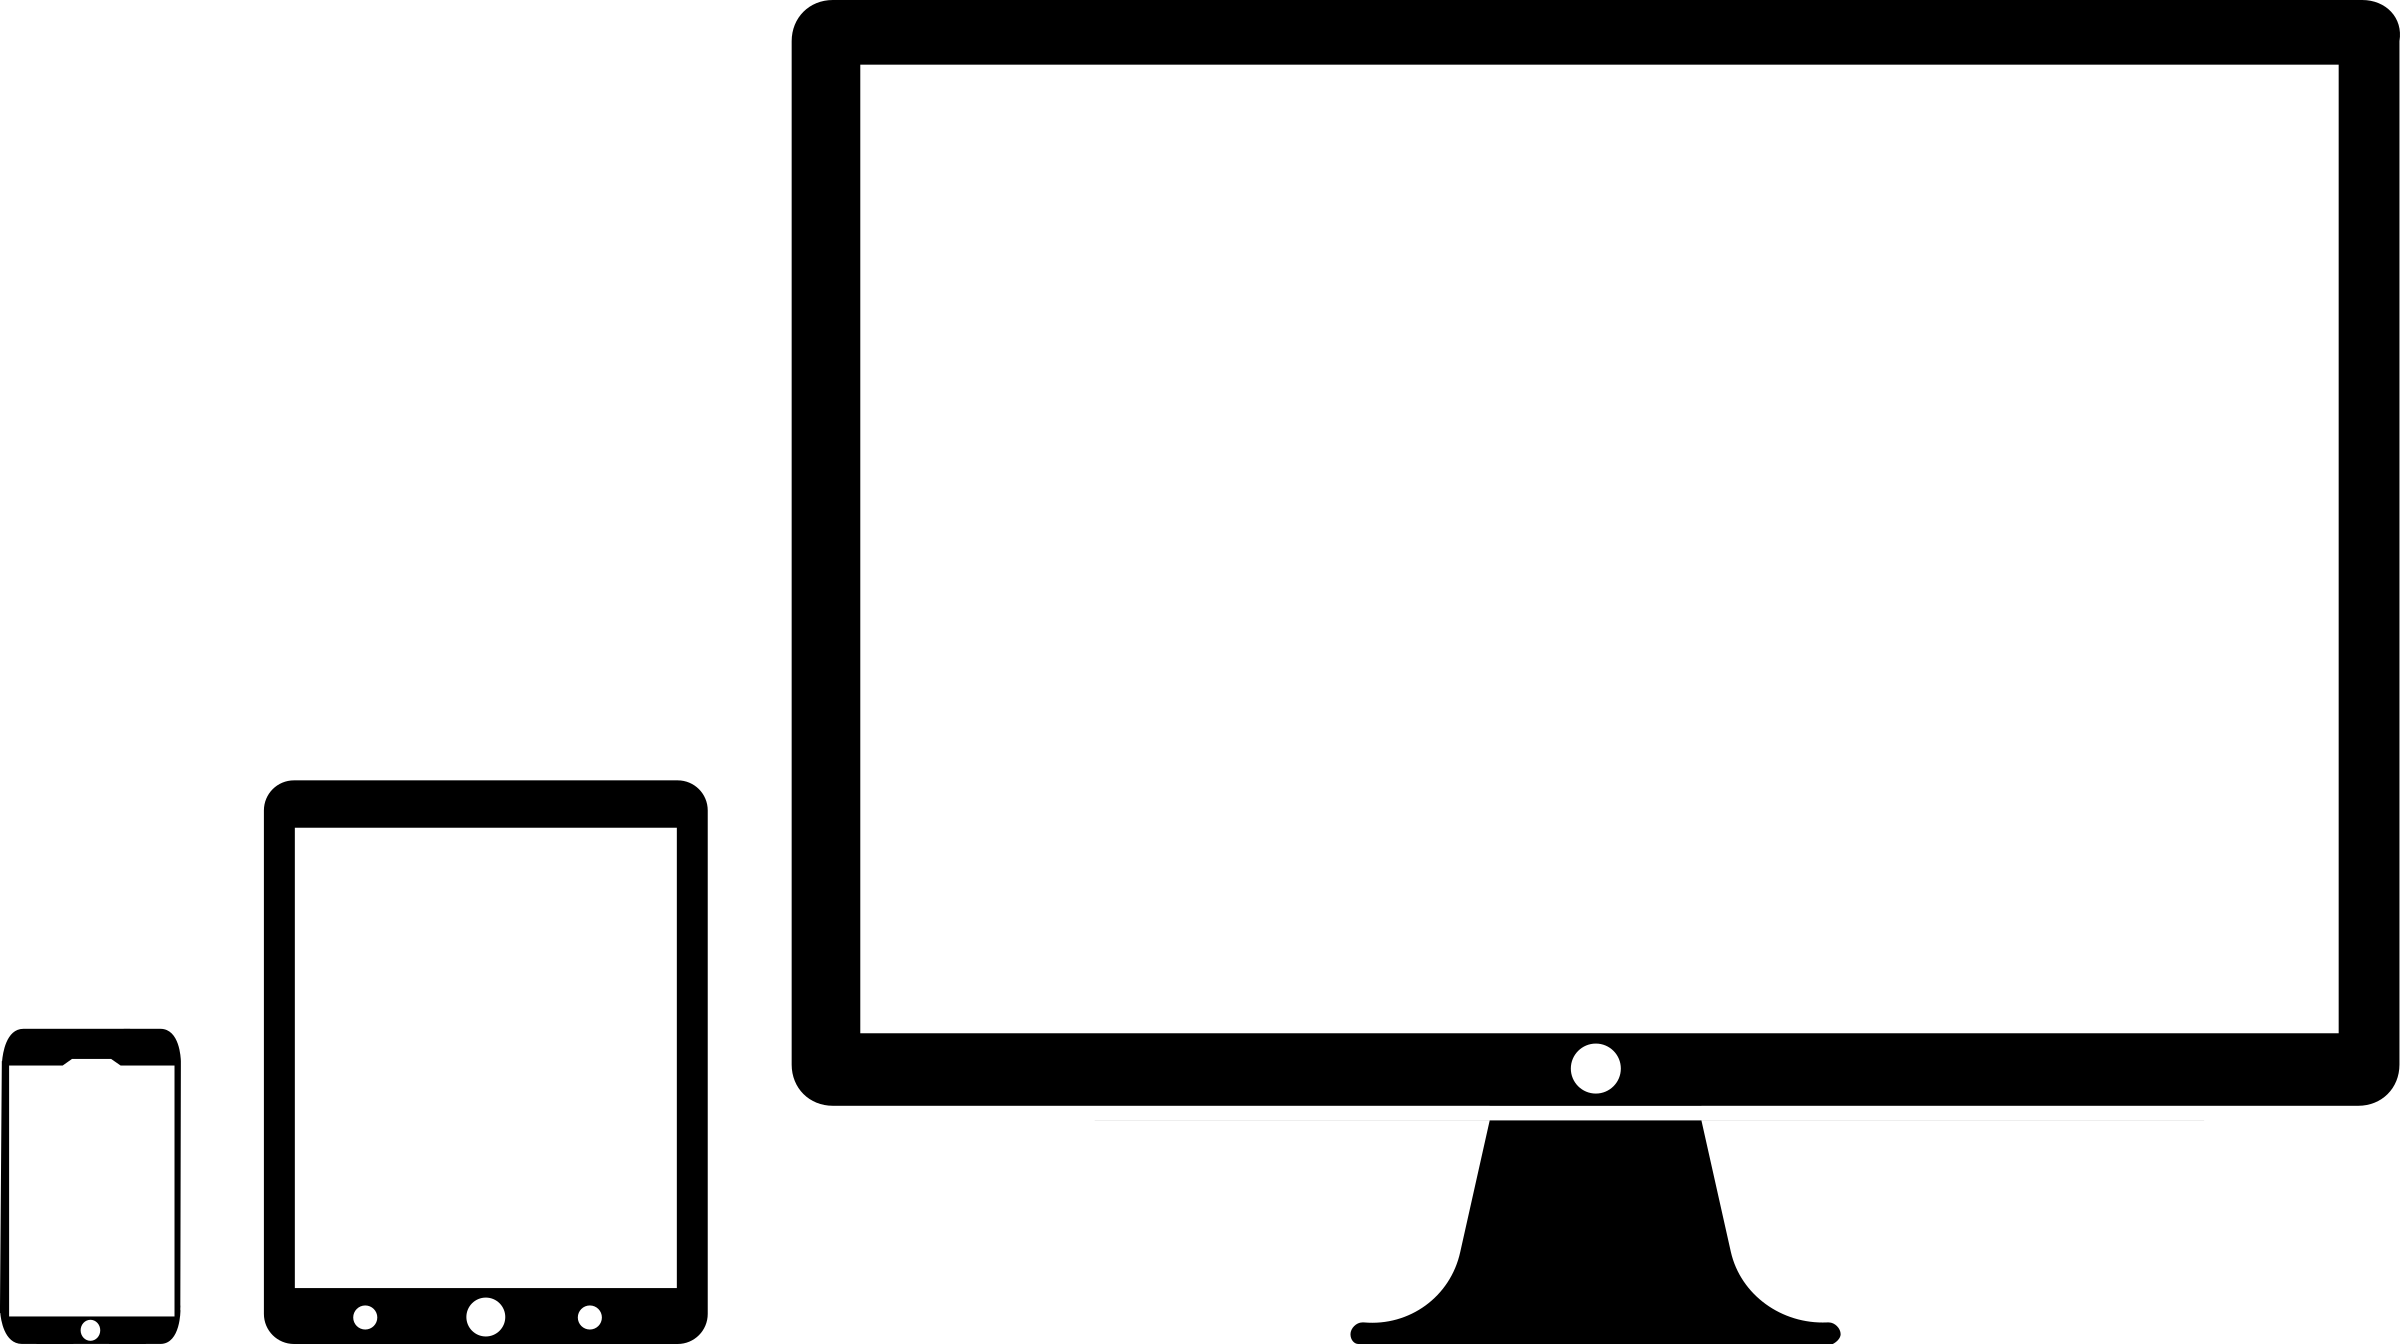
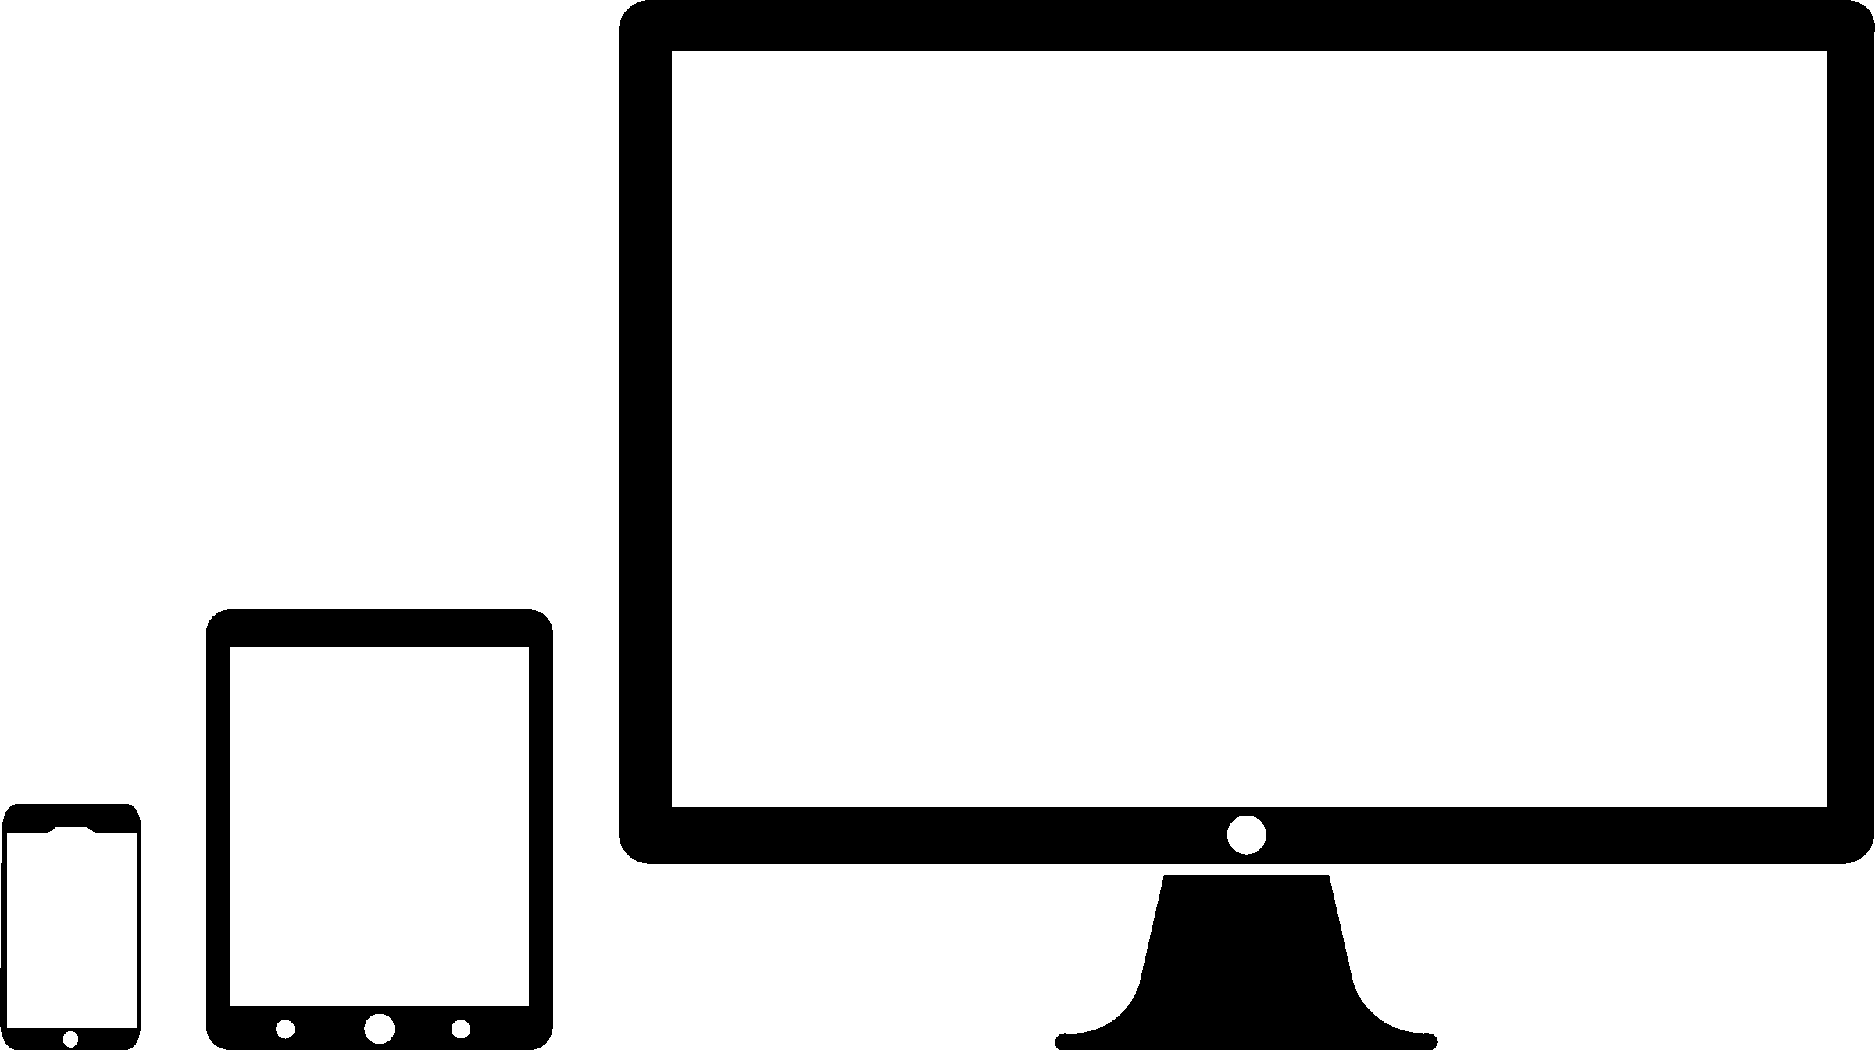
layout cd...

diff --git a/skeleton/templates/skeleton/base.html b/skeleton/templates/skeleton/base.html
@@ -102,26 +102,14 @@
 	    					     d="M 173.61794,653.12532 C 125.63879,644.08151 97.680326,612.54239 92.459831,561.57322 85.73563,495.92295 118.84034,450.7649 181.25,440.4548 c 15.79924,-2.61005 42.78331,-1.68448 56.875,1.95084 30.61791,7.89867 50.06145,26.72924 57.53315,55.71936 2.27099,8.81144 4.73707,33.75954 3.73771,37.8125 l -0.69348,2.8125 -61.39738,0 -61.39736,0 0.71808,24.6875 c 0.9535,32.78034 4.5124,48.81804 13.86632,62.48651 8.42325,12.30856 24.97266,18.11093 44.22711,15.50643 17.38821,-2.35208 28.0198,-7.74556 39.04324,-19.80697 5.86558,-6.41789 15.06273,-23.02732 16.86552,-30.45798 0.66335,-2.73419 1.33224,-3.12828 4.51642,-2.66094 3.45037,0.5064 3.67711,0.84926 2.94924,4.45951 -0.43367,2.15101 -3.60263,9.74929 -7.04215,16.88504 -10.7578,22.31856 -26.95695,35.6579 -51.05142,42.03876 -11.29245,2.99054 -52.96079,3.7673 -66.38206,1.23746 z M 221.25,507.15471 c 0,-46.98117 -4.43706,-59.65471 -20.88538,-59.65471 -6.50863,0 -7.2783,0.33474 -12.28746,5.34389 -8.54224,8.54223 -11.7613,24.89416 -11.8055,59.96861 L 176.25,530 l 22.5,0 22.5,0 0,-22.84529 z M 39.25839,652.53946 c -12.264915,-2.61813 -20.601256,-8.50925 -24.761145,-17.49817 -2.48996,-5.38044 -2.641528,-8.01524 -3.004484,-52.22879 l -0.382238,-46.5625 -4.9302618,0 C 2.6311401,536.25 1.25,535.72475 1.25,534.375 c 0,-1.35416 1.3888889,-1.875 5,-1.875 l 5,0 0,-16.20182 0,-16.20182 4.6875,-1.25379 c 2.578125,-0.68958 12,-2.99892 20.9375,-5.13187 8.9375,-2.13295 17.234375,-4.15958 18.4375,-4.50363 2.024059,-0.57879 2.1875,1.01517 2.1875,21.33369 l 0,21.95924 16.25,0 c 13.611111,0 16.25,0.30449 16.25,1.875 0,1.57091 -2.646309,1.875 -16.316784,1.875 l -16.316783,0 0.379283,49.0625 c 0.341044,44.11592 0.602124,49.47026 2.58952,53.10689 3.874379,7.08952 13.802144,7.04397 20.721575,-0.095 C 85.085944,634.16731 90,623.40435 90,618.73659 c 0,-1.64277 0.837771,-2.48659 2.46875,-2.48659 2.110341,0 2.35663,0.58979 1.69646,4.0625 -2.821438,14.84167 -12.253156,27.9114 -22.29021,30.888 -6.510025,1.93061 -26.081207,2.73405 -32.61661,1.33896 z M 285,646.25 l 0,-5 15,0 15,0 0,-200.625 0,-200.625 -16.25,0 -16.25,0 0,-5 0,-5 68.75,0 68.75,0 0,136.19874 0,136.19875 4.93451,-2.13625 c 2.71399,-1.17493 33.02698,-25.47999 67.36221,-54.01124 l 62.42769,-51.875 -26.11221,-0.33736 -26.1122,-0.33737 0,-4.97513 0,-4.97514 55.625,0 55.625,0 0,5 0,5 -20.00167,0 -20.00168,0 -33.12332,28.18485 C 522.4055,437.43651 507.5,450.39938 507.5,450.74119 c 0,0.34182 21.79687,43.3394 48.4375,95.55016 l 48.4375,94.92866 10.3125,0.015 10.3125,0.015 0,5 0,5 -78.125,0 -78.125,0 0,-5 0,-5 12.5,0 c 6.875,0 12.5,-0.25717 12.5,-0.5715 0,-0.31434 -14.07779,-29.42371 -31.28398,-64.6875 C 431.26661,512.04832 431.17194,511.8755 427.44585,512.0615 419.44507,512.46089 420,507.58677 420,577.46077 l 0,63.78923 13.125,0 13.125,0 0,5 0,5 -80.625,0 -80.625,0 0,-5 z M 0,408.84155 0,403.75 l 14.375,0 14.375,0 0,-170 0,-170 -14.375,0 -14.375,0 0,-5.11626 0,-5.116259 90.9375,0.611094 c 92.48156,0.621471 101.13094,1.028905 125.3125,5.90292 26.71614,5.38488 42.96675,12.831638 55.72077,25.533739 14.41843,14.359724 19.73722,28.691966 19.73722,53.184766 0,24.53073 -6.11635,40.65709 -21.15215,55.76984 -6.9506,6.98617 -11.37962,10.13542 -20.6402,14.67622 -10.24789,5.0249 -16.82833,7.2305 -38.66564,12.9597 -4.29484,1.12679 -4.21468,1.17564 4.375,2.66595 54.79883,9.50764 84.79525,31.82566 92.64266,68.92829 2.42064,11.4448 1.67403,36.6981 -1.42281,48.125 -10.68751,39.43544 -41.36063,59.20191 -106.90225,68.89035 -12.15691,1.79705 -28.32403,2.19577 -107.1301,2.6421 L 0,413.9331 0,408.84155 Z m 169.96489,-7.07192 C 186.5139,396.8551 194.96737,386.6636 200.46392,365 c 4.53718,-17.88238 5.60484,-68.22805 1.87537,-88.43289 -5.66177,-30.67321 -23.04877,-43.57356 -59.83929,-44.398 l -13.125,-0.29411 -0.32111,85.9375 -0.32112,85.9375 17.28174,0 c 12.13075,0 19.26939,-0.59026 23.95038,-1.98037 z M 155.6926,220.86125 c 19.19232,-4.02394 29.07969,-16.25184 33.04,-40.86125 2.33274,-14.4956 1.04155,-77.01541 -1.79308,-86.821035 C 180.42676,70.649753 169.55369,63.75 140.56347,63.75 l -11.81347,0 0,78.54166 c 0,43.19793 0.375,78.91668 0.83334,79.375 1.39475,1.39476 18.0687,0.8804 26.10926,-0.80541 z m 189.9324,-0.78656 c -18.33538,-2.98235 -26.80059,-8.15549 -32.86584,-20.08451 -3.6331,-7.1455 -4.14412,-9.35568 -4.20195,-18.17338 -0.0856,-13.06343 1.95693,-19.47795 8.53065,-26.78953 9.51518,-10.58316 24.72169,-14.86687 56.48513,-15.91201 l 21.69797,-0.71393 -0.60723,-31.38817 C 394.00669,73.05169 393.19567,68.003371 387.47831,62.286004 384.61601,59.423705 382.84045,58.75 378.15908,58.75 c -10.18502,0 -15.67603,4.468887 -15.64202,12.730324 0.0321,7.806631 1.10316,9.601324 5.97619,10.014353 3.96293,0.335892 4.61914,0.891429 5.6171,4.755323 0.62149,2.40625 0.92132,8.093324 0.66631,12.637943 -0.57401,10.229497 -4.20225,15.606397 -13.73714,20.357827 -11.65067,5.80578 -30.73867,3.87307 -37.55434,-3.80248 -5.88201,-6.62406 -8.00361,-21.541335 -4.65386,-32.721815 3.57439,-11.930229 16.52988,-21.529071 34.91868,-25.871576 13.31554,-3.144457 44.832,-3.942799 58.75,-1.488195 21.76584,3.838662 32.20244,10.263731 38.6159,23.77307 5.90866,12.445998 6.5998,19.051762 7.21834,68.990226 0.33479,27.03104 1.10419,47.63387 1.85153,49.58026 1.67617,4.36545 7.30907,6.80444 11.06839,4.79251 3.9412,-2.10927 7.45517,-11.05336 9.1097,-23.18698 1.19303,-8.74903 1.82145,-10.56079 3.66311,-10.56079 1.69636,0 2.22303,1.01046 2.22303,4.26504 0,5.21263 -3.01771,21.23378 -4.96511,26.35996 -6.29658,16.57455 -23.86518,23.94495 -49.33473,20.69696 -17.68462,-2.25522 -28.2968,-8.34576 -33.12299,-19.00992 l -2.06502,-4.56295 -3.58075,6.83913 c -6.00603,11.47135 -14.69629,16.18042 -31.71615,17.18628 -5.27464,0.31172 -12.40275,0.10925 -15.84025,-0.44981 z m 39.45886,-13.86958 c 1.33073,-0.71217 3.96546,-4.2278 5.85495,-7.8125 3.34874,-6.35312 3.44574,-7.12486 3.84389,-30.58011 l 0.40845,-24.0625 -4.28571,0 c -5.63904,0 -11.92494,4.40212 -15.1717,10.625 -2.35243,4.50874 -2.60874,7.12941 -2.60874,26.67294 0,21.26886 0.055,21.7175 2.95097,24.0625 3.33735,2.70242 5.51038,2.9665 9.00789,1.09467 z M 497.5,160 c 0,-12.90559 0.49169,-22.5 1.15306,-22.5 0.63418,0 1.82694,2.10937 2.65058,4.6875 2.89142,9.05069 9.18676,19.27174 15.19942,24.67764 7.70575,6.92812 16.2435,9.89058 28.49694,9.88796 16.90531,-0.004 25,-5.00798 25,-15.45566 0,-9.32453 -4.8985,-12.65663 -27.70471,-18.84555 -25.88427,-7.0242 -39.60279,-16.03593 -43.32527,-28.46044 -2.39469,-7.9928 -1.8344,-21.673775 1.22222,-29.843319 6.36665,-17.016391 22.91107,-26.440411 44.01896,-25.074039 6.56394,0.424902 13.20494,1.812214 18.75012,3.916919 4.72248,1.792444 9.61573,3.258989 10.87389,3.258989 1.25817,0 3.78501,-1.963269 5.61525,-4.36282 1.83023,-2.399551 3.8276,-4.053855 4.43862,-3.676229 C 584.50009,58.588576 585,67.301845 585,77.573771 585,99.17674 583.91773,100.88451 578.04234,88.552556 570.93524,73.635331 559.38521,65.069895 545,64.048526 c -18.56185,-1.317913 -30.46156,7.936738 -24.48198,19.04015 2.96093,5.498106 6.50085,7.269446 24.87308,12.446195 24.14667,6.803819 37.58624,14.460419 42.62774,24.285279 7.60963,14.82965 4.37343,38.84528 -6.73093,49.94964 -12.69034,12.69033 -37.52749,16.2084 -58.34404,8.26416 -13.75301,-5.24859 -14.84543,-5.25151 -19.60743,-0.0526 C 501.06001,180.4666 498.81555,182.5 498.34875,182.5 497.88194,182.5 497.5,172.375 497.5,160 Z"/>
 	    	    </svg>
     	    </h1>
-    	    <p id="main_text" style="visibility:hidden">Lorem ipsum dolor sit amet, consectetur adipiscing elit, sed do eiusmod tempor incididunt ut labore et dolore magna aliqua. Ut enim ad minim veniam, quis nostrud exercitation ullamco laboris nisi ut aliquip ex ea commodo consequat. Duis aute irure dolor in reprehenderit in voluptate velit esse cillum dolore eu fugiat nulla pariatur. Excepteur sint occaecat cupidatat non proident, sunt in culpa qui officia deserunt mollit anim id est laborum.</p>
         </div>
+        <div class="center_center">
+            <p id="main_text" style="visibility:hidden">Lorem ipsum dolor sit amet, consectetur adipiscing elit, sed do eiusmod tempor incididunt ut labore et dolore magna aliqua. Ut enim ad minim veniam, quis nostrud exercitation ullamco laboris nisi ut aliquip ex ea commodo consequat. Duis aute irure dolor in reprehenderit in voluptate velit esse cillum dolore eu fugiat nulla pariatur. Excepteur sint occaecat cupidatat non proident, sunt in culpa qui officia deserunt mollit anim id est laborum. </p>
+        </div>
+
         <div id='section1'></div>
-    </div>
 
-
-
-<!--section_2-->
-
-	<div id="sec2_wrap">
-
-	</div>
-
-<!--section_3-->
-
-<div id="contact_wrap"><section id="section3"></section></div>
-
-<!--basic frame-->
-
-		<div id="btn1_svg_hold">
+        <div id="btn1_svg_hold">
             <svg xmlns="http://www.w3.org/2000/svg" viewBox="0 0 15 6">
                 <polyline id="poly11" points="0,0 15,0" style="fill:none;stroke:rgb(3,75,210);stroke-width:0.2" />
                 <polyline id="poly12" points="15,0 15,6" style="fill:none;stroke:rgb(3,75,210);stroke-width:0.2" />
@@ -134,6 +122,32 @@
 		<div id="btn1">
             <p id="btn1_text">Explore!</p>
 	    </div>
+
+
+
+    </div>
+
+
+
+<!--section_2-->
+
+	<div id="sec2_wrap">
+		<div id="desk" class="desktop"><div id="red_desk_click"></div></div>
+		<div id="tablet" class="desktop"><div id="red_tablet_click"></div></div>
+		<div id="phone" class="desktop"><div id="red_phone_click"></div></div>
+		<div id="desk_wrap"></div>
+		<div id="tablet_wrap"></div>
+		<div id="phone_wrap"></div>
+		
+		
+		
+	</div>
+
+<!--section_3-->
+
+<div id="contact_wrap"><section id="section3"></section></div>
+
+<!--basic frame-->
 
 
 <div id="btn2">

diff --git a/static/css/skeleton.css b/static/css/skeleton.css
@@ -48,14 +48,24 @@ transform: rotate(-90deg);
 
 .center_center {display: table-cell; vertical-align: middle}
 
-#intro {position: relative; margin: auto; margin-left: 15vw; width: 30vw; height: 34vw; z-index: 2;}
+#intro {position: relative; margin: auto; margin-left: 15vw; width: 26vw; height: 30vw; z-index: 2;}
 
-#main_text {position: absolute; z-index: 2; font-family: 'Oswald'; left: 45vw; max-width: 40vw; color: white; text-align: justify; top: calc(50% - 15vh);}
+#main_text {
+position: relative; 
+margin: auto; 
+z-index: 2; 
+font-family: 'Oswald'; 
+margin-right: 15vw; 
+width: 26vw; 
+color: white; 
+text-align: justify;  
+border-bottom: 1px solid white;
+}
 
-#section1 { 
-background-image: url('../img/ja.png'); 
-background-size: contain; 
-background-repeat: no-repeat; 
+#section1 {
+background-image: url('../img/ja.png');
+background-size: contain;
+background-repeat: no-repeat;
 background-position: center;
 position: absolute;
 left: 0;
@@ -74,6 +84,105 @@ z-index: 1;
 /*seconde page (section_2)*/
 
 #sec2_wrap {position: absolute; display: table; top: 100%; width: 100%; height: 100vh}
+
+.desktop {
+background-size: contain;
+background-repeat: no-repeat;
+background-position: center;
+position: absolute;
+bottom: 20vh;
+}
+
+#desk {
+background-image: url('../img/desk.png');
+left: 15vw;
+width: 72vh;
+height: 60.19vh;
+z-index: 1;
+}
+
+#desk_wrap {
+width: 72vh;
+height: 46.19vh;
+left: 15vw;
+bottom: 34vh;
+position: absolute;
+background: blue;
+border-radius: 7pt;
+}
+
+#red_desk_click {
+position: absolute;
+left: 34.7vh;
+bottom: 11vh;
+z-index: 2;
+width: 2.7vh;
+height: 2.7vh;
+background: black;
+border-radius: 100%;
+border: 1px solid blue;
+}
+
+#tablet {
+background-image: url('../img/tablet.png');
+left: 10vw;
+width: 18.83vh;
+height: 23.99vh;
+z-index: 3;
+}
+
+#tablet_wrap {
+width: 18.8vh;
+height: 20.99vh;
+left: 10vw;
+bottom: 22vh;
+position: absolute;
+background: blue;
+border-radius: 7pt;
+z-index: 2;
+}
+
+#red_tablet_click {
+position: absolute;
+left: 8.4vh;
+bottom: 0.2vh;
+z-index: 2;
+width: 2vh;
+height: 2vh;
+background: black;
+border-radius: 100%;
+border: 1px solid blue;
+}
+
+#phone {
+background-image: url('../img/phone.png');
+left: 8vw;
+width: 6.82vh;
+height: 11.99vh;
+z-index: 5;
+}
+
+#phone_wrap {
+left: 8vw;
+width: 6.82vh;
+height: 10vh;
+bottom: 21vh;
+position: absolute;
+background: blue;
+z-index: 4;
+}
+
+#red_phone_click {
+position: absolute;
+left: 2.8vh;
+bottom: 0.1vh;
+z-index: 2;
+width: 1vh;
+height: 1vh;
+background: black;
+border-radius: 100%;
+border: 1px solid blue;
+}
 
 
 /*contact (section_3)*/
@@ -136,7 +245,6 @@ visibility: hidden;
 cursor: pointer;
 z-index: 15;
 }
-
 
 
 #btn_svg_solo {
@@ -209,6 +317,26 @@ z-index: 2;
 
 
 
+/*small Desktop*/
+@media (min-width: 992px) and (max-width: 1200px) {
+
+
+}
+
+
+/*iPad*/
+@media (min-width: 768px) and (max-width: 992px) {
+
+
+}
+
+
+
+/*iPhone*/
+@media only screen and (max-width: 768px) {
+
+
+}
 
 
 

diff --git a/static/jquery/skeleton.js b/static/jquery/skeleton.js
@@ -146,7 +146,7 @@
 //main record
 
 	tlBase
-		.to(section1, 1, {ease:Power0.easeNone, autoAlpha: 0.4, x: 150})
+		.to(section1, 1, {ease:Power0.easeNone, autoAlpha: 0.125, x: 150})
 		.from(faBars, 1, {y: -50, autoAlpha: 0, ease:Power2.easeOut}, '-=1')
 		.from(btn1, 1, {autoAlpha: 0, ease:Power2.easeOut}, '-=1')
 		.from(btn1Text, 1, {y: 50, autoAlpha: 0, ease:Power2.easeOut}, '-=1')
@@ -289,7 +289,7 @@
 		.to(top7, 1, {autoAlpha: 1, ease:Power0.easeNone}, '-=1')
 		.to(countingBottom, 1, {borderTop: '1px solid rgb(245,184,34)', ease:Power0.easeNone}, '-=1')
 		.to(drawnLine, 1, {background: 'rgb(245,184,34)', ease:Power0.easeNone}, '-=1')
-		
+
 
 		.to(polyLeft, 1, {drawSVG: '0% 100%', autoAlpha: 1, ease:Power2.easeOut}, '-=1')
 		.to(polyRight, 1, {drawSVG: '0% 100%', autoAlpha: 1, ease:Power2.easeOut}, '-=1')
@@ -312,7 +312,7 @@
         .to(drawnLineBottomLeft, 1, {width:"50%", ease:Power2.easeOut}, '-=1')
 		.to(drawnLineBottomRight, 1, {width:"50%", ease:Power2.easeOut}, '-=1')
 		.to(drawnLine, 1, {background: 'rgb(243,117,3)', ease:Power0.easeNone}, '-=1')
-		
+
 
 		.to(btnSvgSolo, 1, {autoAlpha: 0},'-=1')
 		.to(poly31to34, 1, {autoAlpha: 0}, '-=1')
@@ -350,7 +350,7 @@
         .to(poly7, 0.2, {x: 1, repeat:1, yoyo:true, ease:Linear.easeNone}, '-=0.2')
 		.to(poly7, 0.2, {stroke: "rgb(243,117,3)"}, '-=0.2')
 
-		
+
 
 
 //fa_Bars click event
@@ -368,7 +368,7 @@
         .to(btn1Text, 0.2, {rotationX: 180, repeat:1, yoyo:true, ease:Linear.easeNone}, '-=0.2')
         .to(poly11to14, 0.2, {stroke: "rgb(243,117,3)", ease:Linear.easeNone})
         .to(poly11to14, 0.2, {drawSVG: "0% 100%", ease:Linear.easeNone}, '-=0.2')
-        
+
 
 //next button animation
 
@@ -378,7 +378,7 @@
 		.to(polyLeft, 0.2, {drawSVG: "0% 100%", ease:Linear.easeNone}, '-=0.2')
     	.to(textLeftPe, 0.2, {color: "rgb(243,117,3)", ease:Linear.easeNone}, '-=0.2')
     	.to(textLeftPe, 0.2, {rotationX: 180, repeat:1, yoyo:true, ease:Linear.easeNone}, '-=0.2')
-    	
+
 
     tlAnimButtonRight
     	.to(polyRight, 0.2, {drawSVG: "50% 50%", ease:Linear.easeNone})
@@ -386,7 +386,7 @@
 		.to(polyRight, 0.2, {drawSVG: "0% 100%", ease:Linear.easeNone}, '-=0.2')
     	.to(textRightPe, 0.2, {color: "rgb(243,117,3)", ease:Linear.easeNone}, '-=0.2')
     	.to(textRightPe, 0.2, {rotationX: 180, repeat:1, yoyo:true, ease:Linear.easeNone}, '-=0.2')
-    	
+
 
 
 //Right Button Animation
@@ -410,7 +410,7 @@
     	.to(btnSolo, 0.2, {rotationX: 180, repeat:1, yoyo:true, ease:Linear.easeNone}, '-=0.2')
     	.to(poly31to34, 0.2, {stroke: "rgb(243,117,3)", ease:Linear.easeNone})
 		.to(poly31to34, 0.2, {drawSVG: "0% 100%", ease:Linear.easeNone}, '-=0.2')
-		
+
 
 
 //FUNCTIONS--------------------------------------------------------------------------------------------------------------------------------------------------------
@@ -772,7 +772,7 @@
 	});
 
 
-	
+
 
 //CENTER BUTTON AFTER RIGHT CLICK EVENT
 
